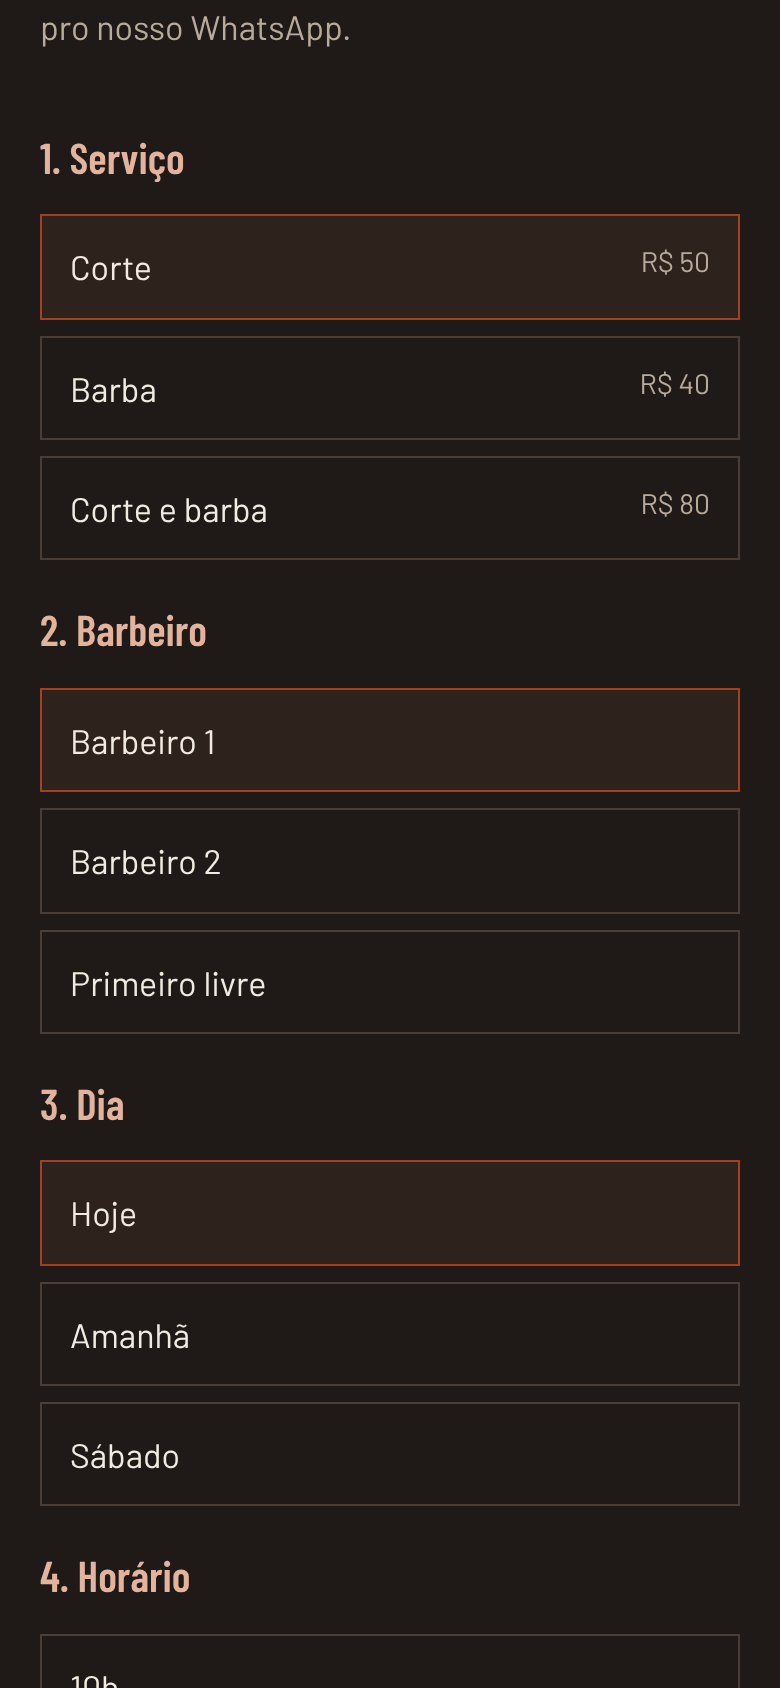
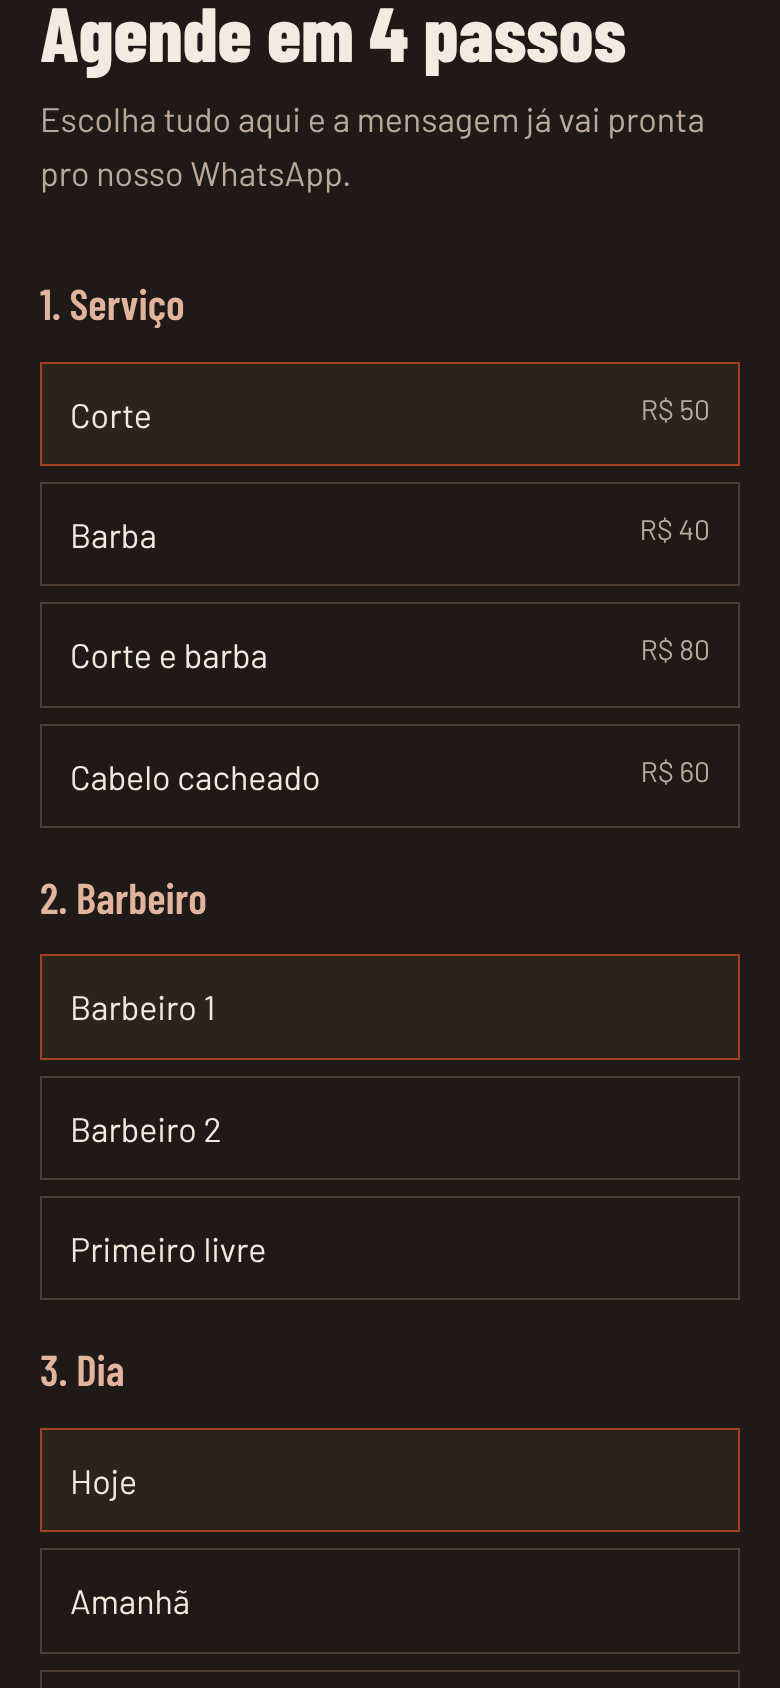
Prévia da Lupion's com dados reais do Google
Claude-Session: https://claude.ai/code/session_01VVFaYFBazfBerGM9xmHanA

diff --git a/previas/lupions-barber.html b/previas/lupions-barber.html
@@ -61,8 +61,9 @@ footer p{margin:0;color:#ecd2c5}
 <header class="topo"><div class="in"><a class="marca" href="#">Lupion's Barber</a><nav class="menu"><a href="#agendar">Agendar</a><a href="#estilos">Cortes</a><a href="#precos">Preços</a><a href="#contato">Contato</a></nav></div></header>
 <section class="hero"><div class="in">
   <h1>Corte bem feito, no seu horário</h1>
-  <p>Barbearia na Granja Viana. Escolha o serviço, o barbeiro e o horário aqui mesmo, e confirme pelo WhatsApp.</p>
+  <p>Barbearia na Galeria Mykonos, Granja Viana. Escolha o serviço, o barbeiro e o horário aqui mesmo, e confirme pelo WhatsApp.</p>
   <a class="btn" href="#agendar">Agendar horário</a>
+  <div class="nota"><b>5,0</b> no Google. Clientes elogiam a pontualidade, a limpeza e o profissionalismo.</div>
 </div></section>
 
 <section class="agenda" id="agendar"><div class="in">
@@ -72,7 +73,8 @@ footer p{margin:0;color:#ecd2c5}
     <div class="passo"><h3>1. Serviço</h3><div class="op">
       <label><span><input type="radio" name="s" value="Corte" checked>Corte</span><small>R$ 50</small></label>
       <label><span><input type="radio" name="s" value="Barba">Barba</span><small>R$ 40</small></label>
-      <label><span><input type="radio" name="s" value="Corte e barba">Corte e barba</span><small>R$ 80</small></label></div></div>
+      <label><span><input type="radio" name="s" value="Corte e barba">Corte e barba</span><small>R$ 80</small></label>
+      <label><span><input type="radio" name="s" value="Cabelo cacheado">Cabelo cacheado</span><small>R$ 60</small></label></div></div>
     <div class="passo"><h3>2. Barbeiro</h3><div class="op">
       <label><span><input type="radio" name="b" value="Barbeiro 1" checked>Barbeiro 1</span><small></small></label>
       <label><span><input type="radio" name="b" value="Barbeiro 2">Barbeiro 2</span><small></small></label>
@@ -105,14 +107,14 @@ footer p{margin:0;color:#ecd2c5}
   <div class="precos">
     <div><span>Corte</span><b>R$ 50</b></div><div><span>Barba</span><b>R$ 40</b></div>
     <div><span>Corte e barba</span><b>R$ 80</b></div><div><span>Pigmentação</span><b>R$ 30</b></div>
-    <div><span>Sobrancelha</span><b>R$ 15</b></div><div><span>Corte infantil</span><b>R$ 45</b></div>
+    <div><span>Sobrancelha</span><b>R$ 15</b></div><div><span>Cabelo cacheado</span><b>R$ 60</b></div>
   </div>
-  <p class="exemplo">Prévia: preços, fotos, horários e nomes dos barbeiros são de exemplo.</p>
+  <p class="exemplo">Prévia: preços, fotos e nomes dos barbeiros são de exemplo.</p>
 </div></section>
 
 <footer id="contato"><div class="in">
-  <div><h4>Lupion's Barber</h4><p>Granja Viana, Cotia</p></div>
-  <div><h4>Horários</h4><p>Ter a sáb, 9h às 20h</p></div>
+  <div><h4>Lupion's Barber</h4><p>R. José Félix de Oliveira, Galeria Mykonos, Granja Viana, Cotia</p></div>
+  <div><h4>Horários</h4><p>Todos os dias até 21h</p></div>
   <div><h4>Contato</h4><p>(11) 94470-8564</p></div>
 </div></footer>
 <script>
